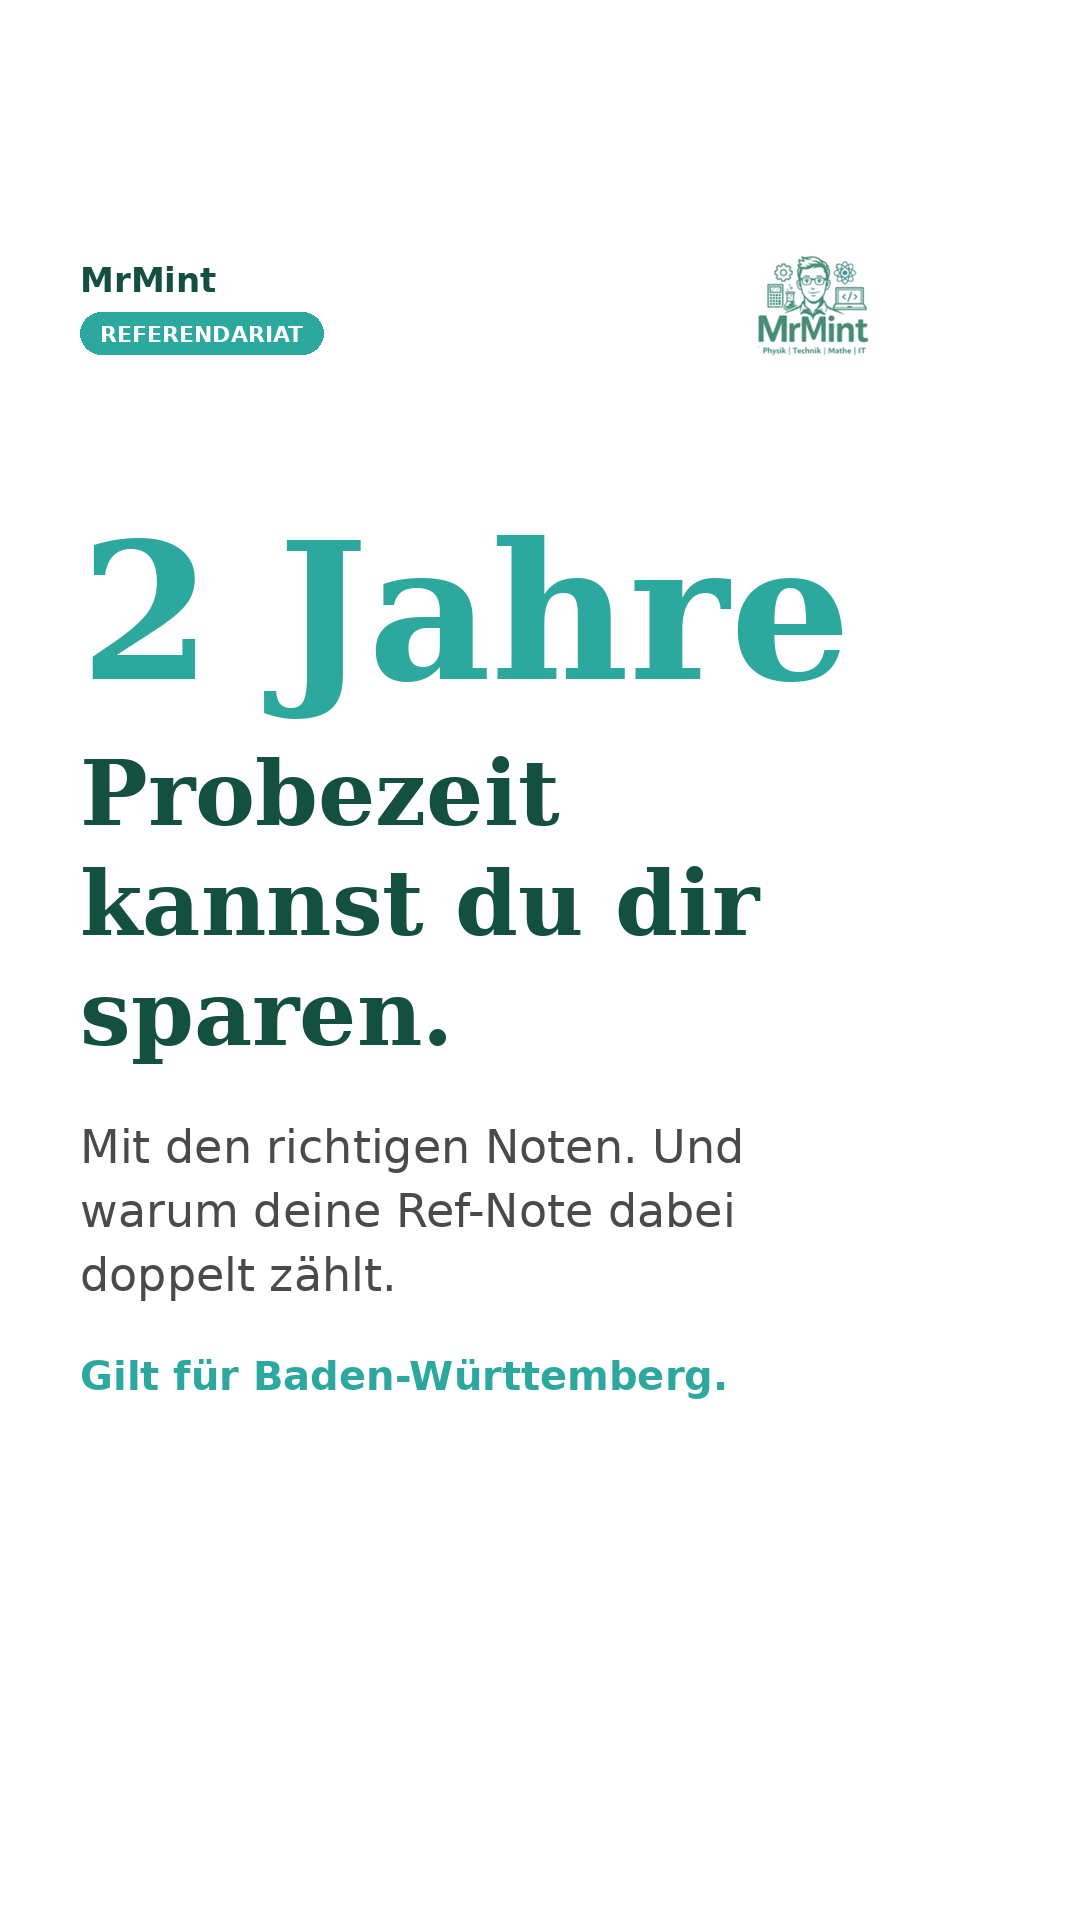
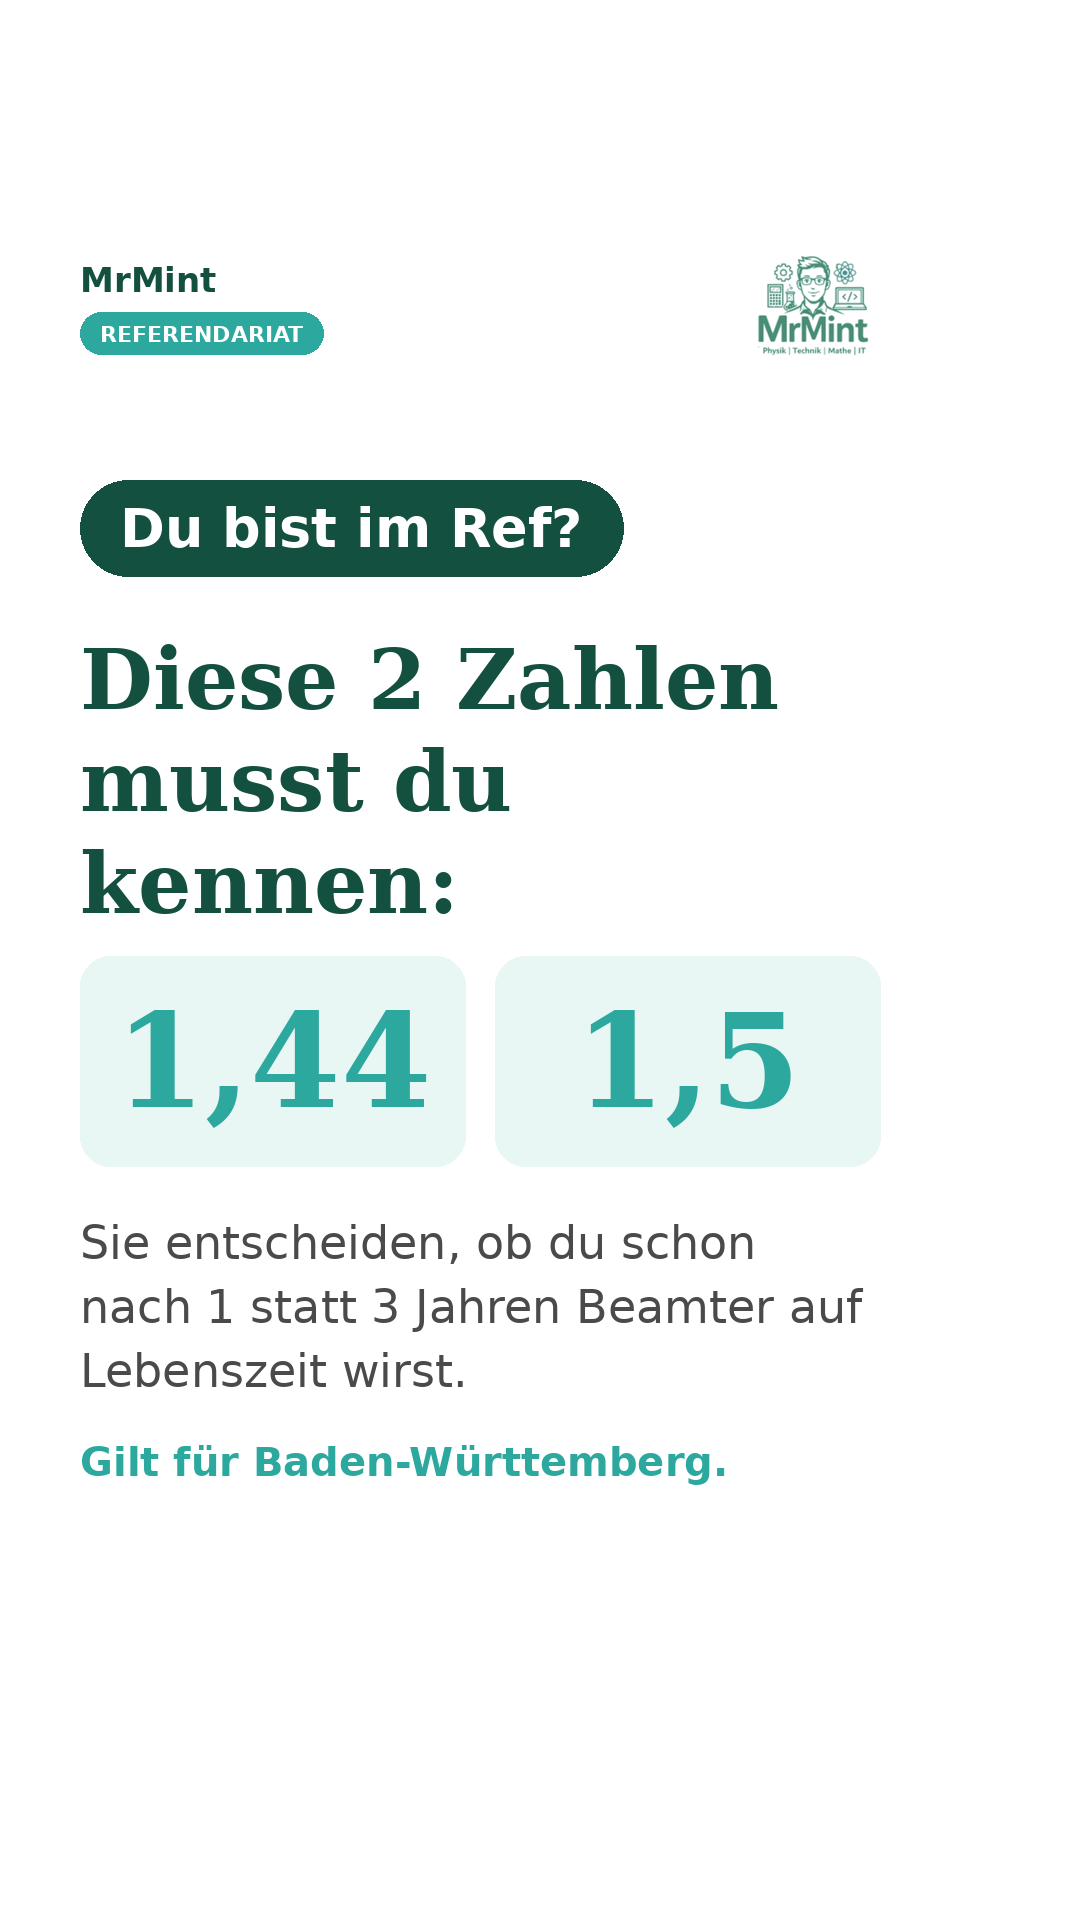
Probezeit-Post: Hook auf Referendare zugeschnitten (1,44 und 1,5)
Claude-Session: https://claude.ai/code/session_019DAG2zTU3C3u4rRbf3TWbH

Changed region(s): [[0.0611, 0.25, 0.7944, 0.7812], [0.7333, 0.6562, 0.7944, 0.6875]]

diff --git a/2026-10-probezeit-leistungszahl/build.py b/2026-10-probezeit-leistungszahl/build.py
@@ -36,10 +36,18 @@ def save(img, n):
 
 # 1 Hook
 img, d = base(TAG)
-d.text((M, 500), "2 Jahre", font=sb(190), fill=MINT)
-y = block(d, 740, "Probezeit kannst du dir sparen.", sb(90), DG, 110)
-y = block(d, y+50, "Mit den richtigen Noten. Und warum deine Ref-Note dabei doppelt zählt.", r(46), GRAY, 64)
-y = block(d, y+40, "Gilt für Baden-Württemberg.", b(40), MINT, 56)
+f = b(54); w = d.textlength("Du bist im Ref?", font=f) + 80
+d.rounded_rectangle([M, 480, M+w, 576], radius=48, fill=DG)
+d.text((M+40, 528), "Du bist im Ref?", font=f, fill=WHITE, anchor="lm")
+y = block(d, 630, "Diese 2 Zahlen musst du kennen:", sb(84), DG, 102) + 20
+bw = (RIGHT - M - 30) / 2
+for i, z in enumerate(["1,44", "1,5"]):
+    x0 = M + i*(bw+30)
+    d.rounded_rectangle([x0, y, x0+bw, y+210], radius=30, fill=LIGHT)
+    d.text((x0+bw/2, y+105), z, font=sb(130), fill=MINT, anchor="mm")
+y += 260
+y = block(d, y, "Sie entscheiden, ob du schon nach 1 statt 3 Jahren Beamter auf Lebenszeit wirst.", r(46), GRAY, 64)
+y = block(d, y+30, "Gilt für Baden-Württemberg.", b(40), MINT, 56)
 save(img, 1)
 
 # 2 Grundlagen
